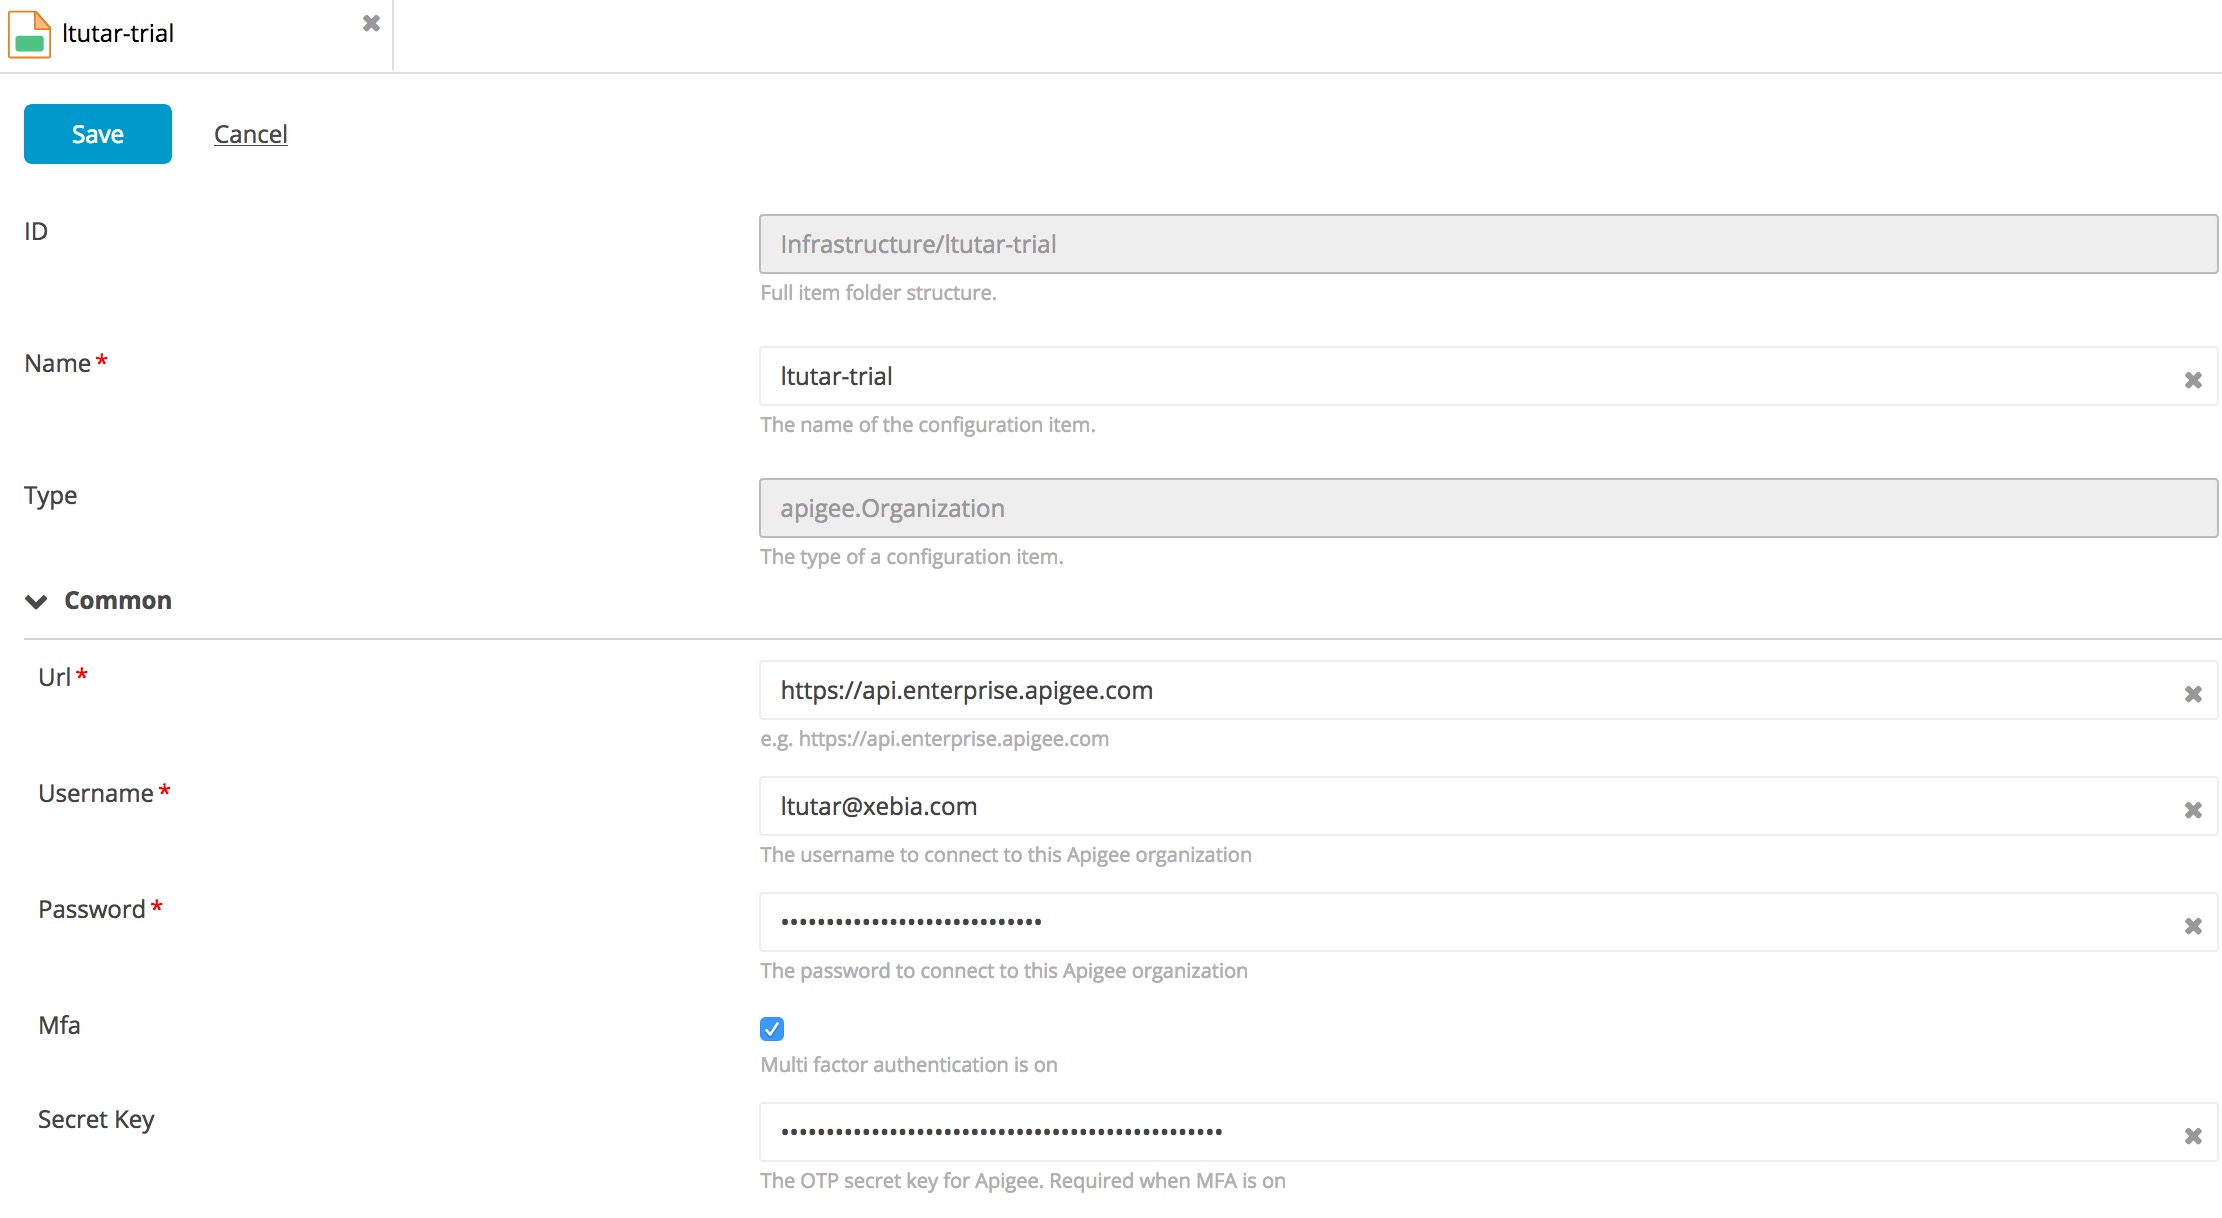
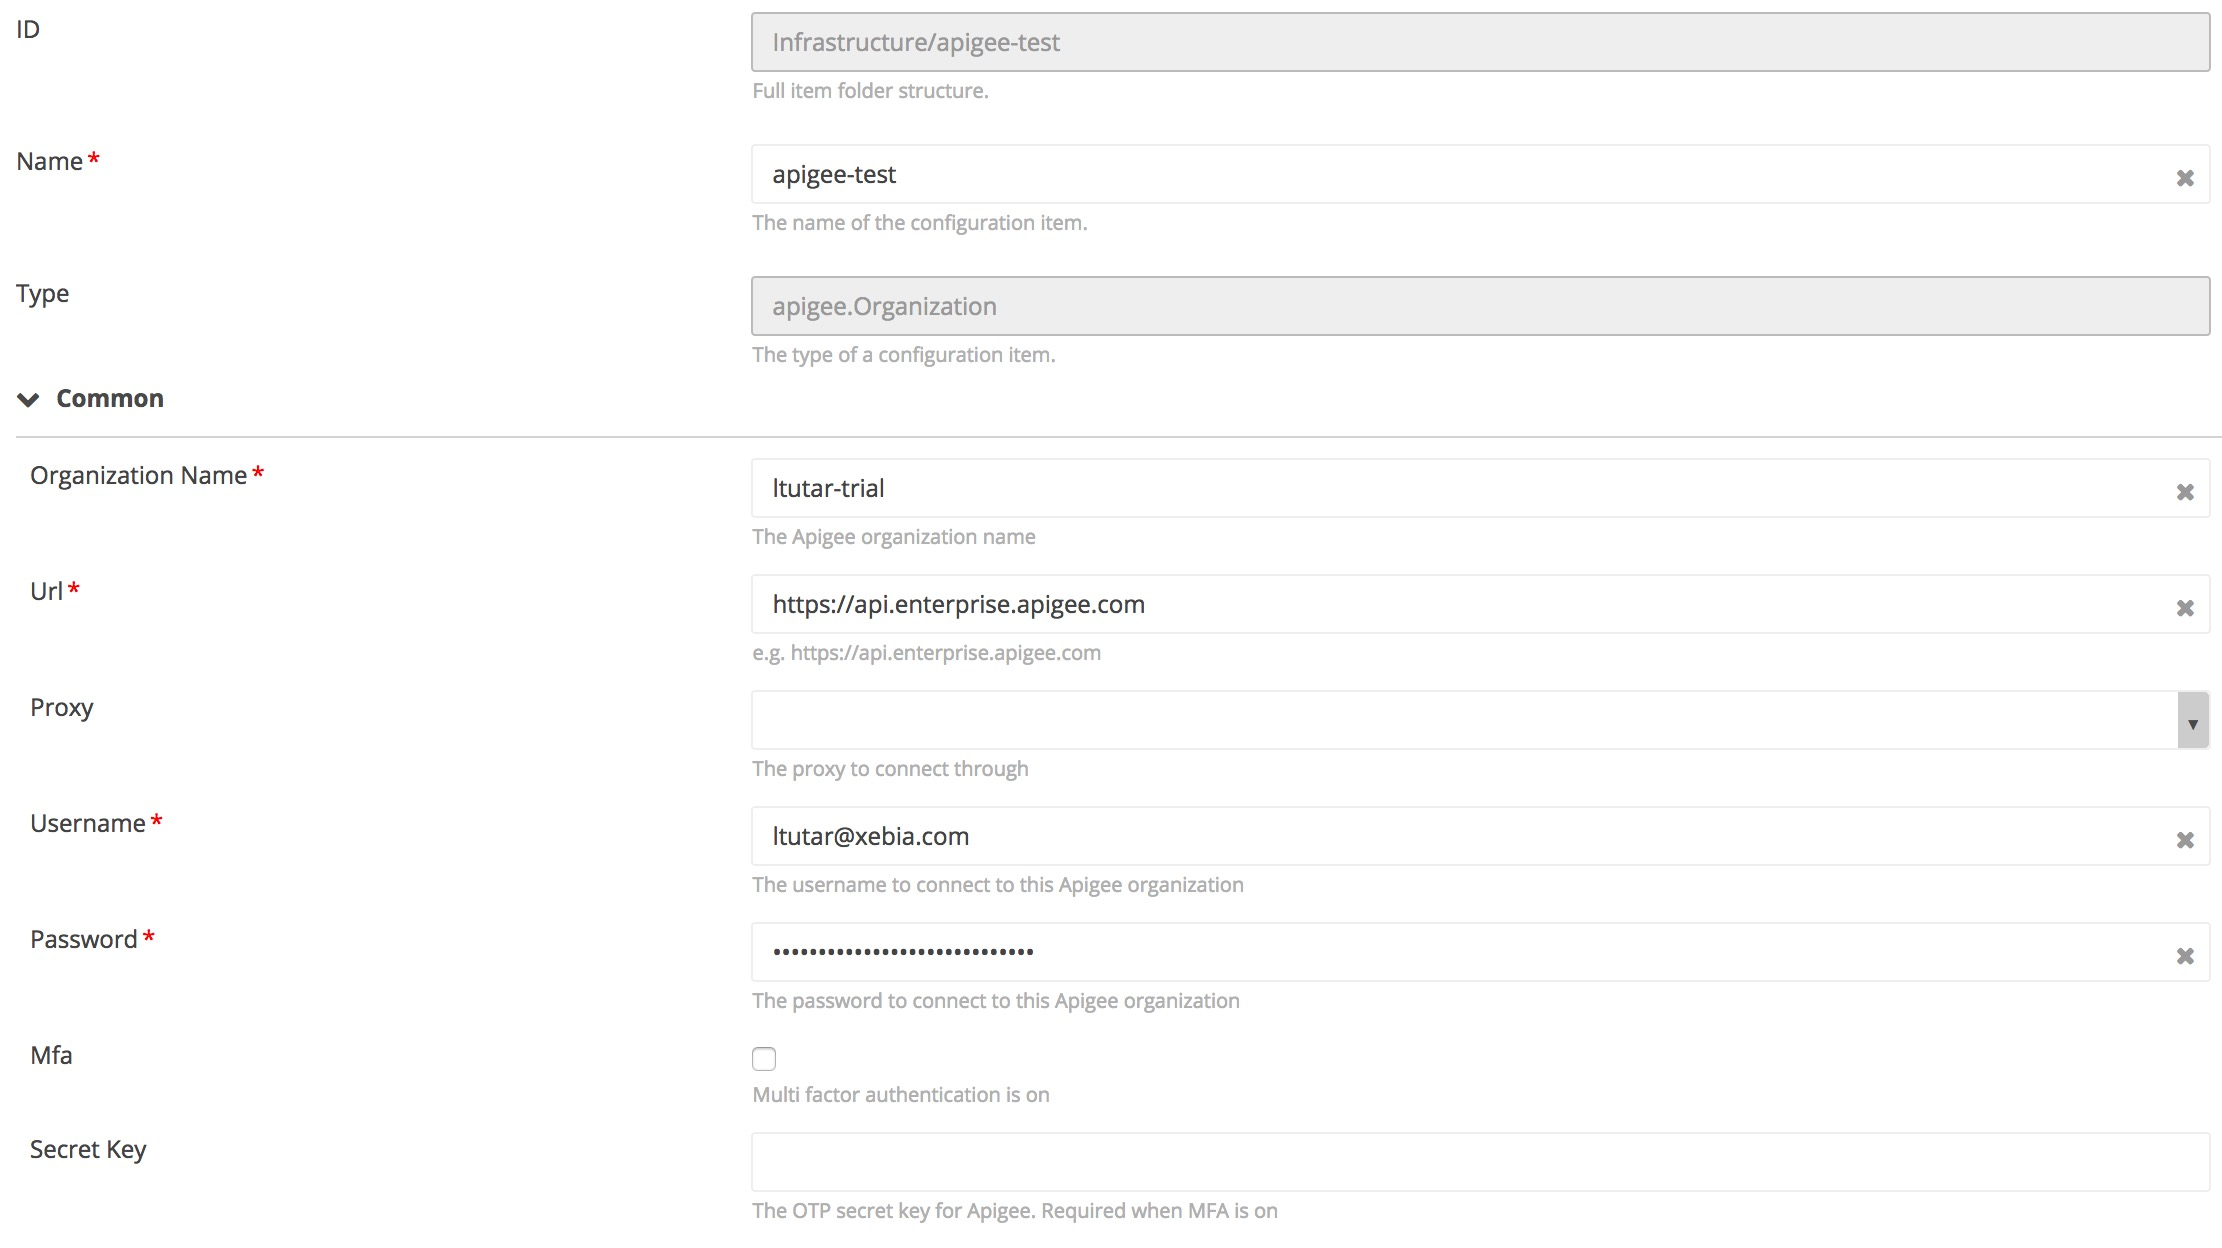
Plugin is now generic and supports proxy
https://github.com/xebialabs-community/xld-apigee-plugin/issues/13
https://github.com/xebialabs-community/xld-apigee-plugin/issues/11
https://github.com/xebialabs-community/xld-apigee-plugin/issues/9
https://github.com/xebialabs-community/xld-apigee-plugin/issues/7

diff --git a/src/main/resources/apigee/__init__.py b/src/main/resources/apigee/__init__.py
@@ -27,10 +27,15 @@ class ApigeeClient(object):
 
     def __init__(self, organization, target_environment):
         self.organization = organization
-        self.target_environment = target_environment
+        self.target_environment = target_environment.environmentName
         self.authentication = (organization.username, organization.password)
         self.mfa = organization.mfa
         self.sso_login_url = "https://login.apigee.com/oauth/token"
+        self.proxy_dict = None
+        if organization.proxy:
+            address = organization.proxy.address
+            idx = address.index(':')
+            self.proxy_dict = { address[0:idx]: address + ":" + str(organization.proxy.port) }
 
     def import_proxy(self, api_proxy, path):
         url = self.build_org_url() + '/apis'
@@ -43,10 +48,10 @@ class ApigeeClient(object):
         headers['Content-Type'] = 'multipart/form-data'
         if self.mfa:
             print("Multi factor authentication is on")
-            resp = requests.post(url, params=params, verify=False, headers=headers, files=data)
+            resp = requests.post(url, params=params, proxies=self.proxy_dict, verify=False, headers=headers, files=data)
         else:
             print("Multi factor authentication is off")
-            resp = requests.post(url, auth=self.authentication, params=params, verify=False, headers=headers, files=data)
+            resp = requests.post(url, auth=self.authentication, params=params, proxies=self.proxy_dict, verify=False, headers=headers, files=data)
         return resp
 
     def delete_revision(self, api_proxy, api_proxy_revision):
@@ -58,10 +63,10 @@ class ApigeeClient(object):
         headers = authorization_headers
         if self.mfa:
             print("Multi factor authentication is on")
-            resp = requests.delete(url, verify=False, headers=headers)
+            resp = requests.delete(url, proxies=self.proxy_dict, verify=False, headers=headers)
         else:
             print("Multi factor authentication is off")
-            resp = requests.delete(url, verify=False, auth=self.authentication)
+            resp = requests.delete(url, proxies=self.proxy_dict, verify=False, auth=self.authentication)
         if resp.status_code > 399:
             print(resp.status_code)
             print(resp.json())
@@ -79,10 +84,10 @@ class ApigeeClient(object):
         headers['Content-Type'] = 'application/x-www-form-urlencoded'
         if self.mfa:
             print("Multi factor authentication is on")
-            resp = requests.post(url, params=params, verify=False, headers=headers)
+            resp = requests.post(url, params=params, proxies=self.proxy_dict, verify=False, headers=headers)
         else:
             print("Multi factor authentication is off")
-            resp = requests.post(url, auth=self.authentication, params=params, verify=False, headers=headers)
+            resp = requests.post(url, auth=self.authentication, params=params, proxies=self.proxy_dict, verify=False, headers=headers)
         if resp.status_code > 399:
             print(resp.status_code)
             print(resp.json())
@@ -98,10 +103,10 @@ class ApigeeClient(object):
         headers = authorization_headers
         if self.mfa:
             print("Multi factor authentication is on")
-            resp = requests.delete(url, verify=False, headers=headers)
+            resp = requests.delete(url, proxies=self.proxy_dict, verify=False, headers=headers)
         else:
             print("Multi factor authentication is off")
-            resp = requests.delete(url, verify=False, auth=self.authentication)
+            resp = requests.delete(url, proxies=self.proxy_dict, verify=False, auth=self.authentication)
         if resp.status_code > 399:
             print(resp.status_code)
             print(resp.json())
@@ -119,13 +124,13 @@ class ApigeeClient(object):
 
     def build_authorization_header(self):
         # Check the connection with an http head request. Otherwise, the password is printed when mfa is on.
-        resp = requests.head(self.sso_login_url, verify=False)
+        resp = requests.head(self.sso_login_url, proxies=self.proxy_dict, verify=False)
         authorization_headers = {}
         if self.mfa:
             my_token = self.create_one_time_password()
             headers = {'Content-Type': 'application/x-www-form-urlencoded;charset=utf-8', 'Accept': 'application/json;charset=utf-8', 'Authorization': 'Basic ' + authorizationHeader}
             params = {'username': self.organization.username, 'password': self.organization.password, 'grant_type': 'password', 'mfa_token': my_token}
-            resp = requests.post(self.sso_login_url, params=params, verify=False, headers=headers)
+            resp = requests.post(self.sso_login_url, params=params, proxies=self.proxy_dict, verify=False, headers=headers)
             if resp.status_code > 399:
                 print(resp.status_code)
                 print(resp.json())

diff --git a/src/main/resources/apigee/undeploy-and-remove-api.py b/src/main/resources/apigee/undeploy-and-remove-api.py
@@ -12,7 +12,7 @@ from apigee import ApigeeClient, setup_urllib
 
 setup_urllib()
 
-client = ApigeeClient(previousDeployed.container.org, previousDeployed.container.name)
+client = ApigeeClient(previousDeployed.container.org, previousDeployed.container)
 response = client.undeploy(previousDeployed.deployable.name, previousDeployed.revisionNumber)
 print(response.json())
 

diff --git a/src/main/resources/apigee/upload-api-and-deploy.py b/src/main/resources/apigee/upload-api-and-deploy.py
@@ -12,7 +12,7 @@ from apigee import ApigeeClient, setup_urllib
 
 setup_urllib()
 
-client = ApigeeClient(deployed.container.org, deployed.container.name)
+client = ApigeeClient(deployed.container.org, deployed.container)
 response = client.import_proxy(deployed.deployable.name, deployed.file.path)
 print(response.json())
 revision_name = response.json()['revision']

diff --git a/src/main/resources/apigee/undeploy-api.py b/src/main/resources/apigee/undeploy-api.py
@@ -12,6 +12,6 @@ from apigee import ApigeeClient, setup_urllib
 
 setup_urllib()
 
-client = ApigeeClient(previousDeployed.container.org, previousDeployed.container.name)
+client = ApigeeClient(previousDeployed.container.org, previousDeployed.container)
 response = client.undeploy(previousDeployed.deployable.name, revision_name)
 print(response.json())

diff --git a/src/main/resources/apigee/deploy-api.py b/src/main/resources/apigee/deploy-api.py
@@ -12,6 +12,6 @@ from apigee import ApigeeClient, setup_urllib
 
 setup_urllib()
 
-client = ApigeeClient(deployed.container.org, deployed.container.name)
+client = ApigeeClient(deployed.container.org, deployed.container)
 response = client.deploy(deployed.deployable.name, revision_name)
 print(response.json())

diff --git a/README.md b/README.md
@@ -41,12 +41,12 @@ Place the plugin JAR file into your `SERVER_HOME/plugins` directory.
 # Usage #
 
 1. Go to `Repository - Infrastructure`, create a new `apigee.Organization` and fill in the properties.
-2. Go to `Repository - Infrastructure - <Apigee Organization>`, create a new `apigee.Environment` with the Apigee environment as name i.e. prod.
+2. Go to `Repository - Infrastructure - <Apigee Organization>`, create a new `apigee.Environment` and fill in the Apigee environment name.
 3. Repeat the previous step for all the Apigee environments that belong to this Apigee organization.
 3. Create an environment under `Repository - Environments` and add the corresponding `<Apigee Environment>` as container.
 4. Create an deployment package `udm.DeploymentPackage` with `apigee.ApiProxySpec` as deployables. The deployment package name should start with `rev<revision number>` i.e. rev1 or `<revision number>` i.e. 1. The deployable name should be the same as the Apigee Proxy name i.e. helloworld. This deployable is handy if you use different environments within the same organization. This deployable assumes that the revision number already exists in Apigee repository.
 5. Create an deployment package `udm.DeploymentPackage` with `apigee.ApiProxyZip` as deployables. The deployment package name can be any version number i.e. 2.1.3. The deployable name should be the same as the Apigee Proxy name i.e. helloworld. This deployable is handy if you use different environments and different organizations. During deployment, the deployable (the exported revision) will be imported to Apigee and then deployed. During undeployment, the revision will be deleted if the property deleteApiProxyRevisionAfterUndeployment is set to True.
-5. Start deploying
+5. Start deploying.
 
 # Types #
 + `apigee.Organization`
@@ -57,6 +57,7 @@ Place the plugin JAR file into your `SERVER_HOME/plugins` directory.
 + `apigee.ApiProxyZip`
 
 ![Screenshot of Apigee Organization](images/apigee-Organization.jpg)
+![Screenshot of Apigee Organization](images/apigee-Environment.jpg)
 ![Screenshot of Environment](images/environment.jpg)
 ![Screenshot of Apigee ApiProxySpec](images/apigee-ApiProxySpec.jpg)
 ![Screenshot of Apigee ApiProxySpec](images/apigee.ApiProxyZip.jpg)
